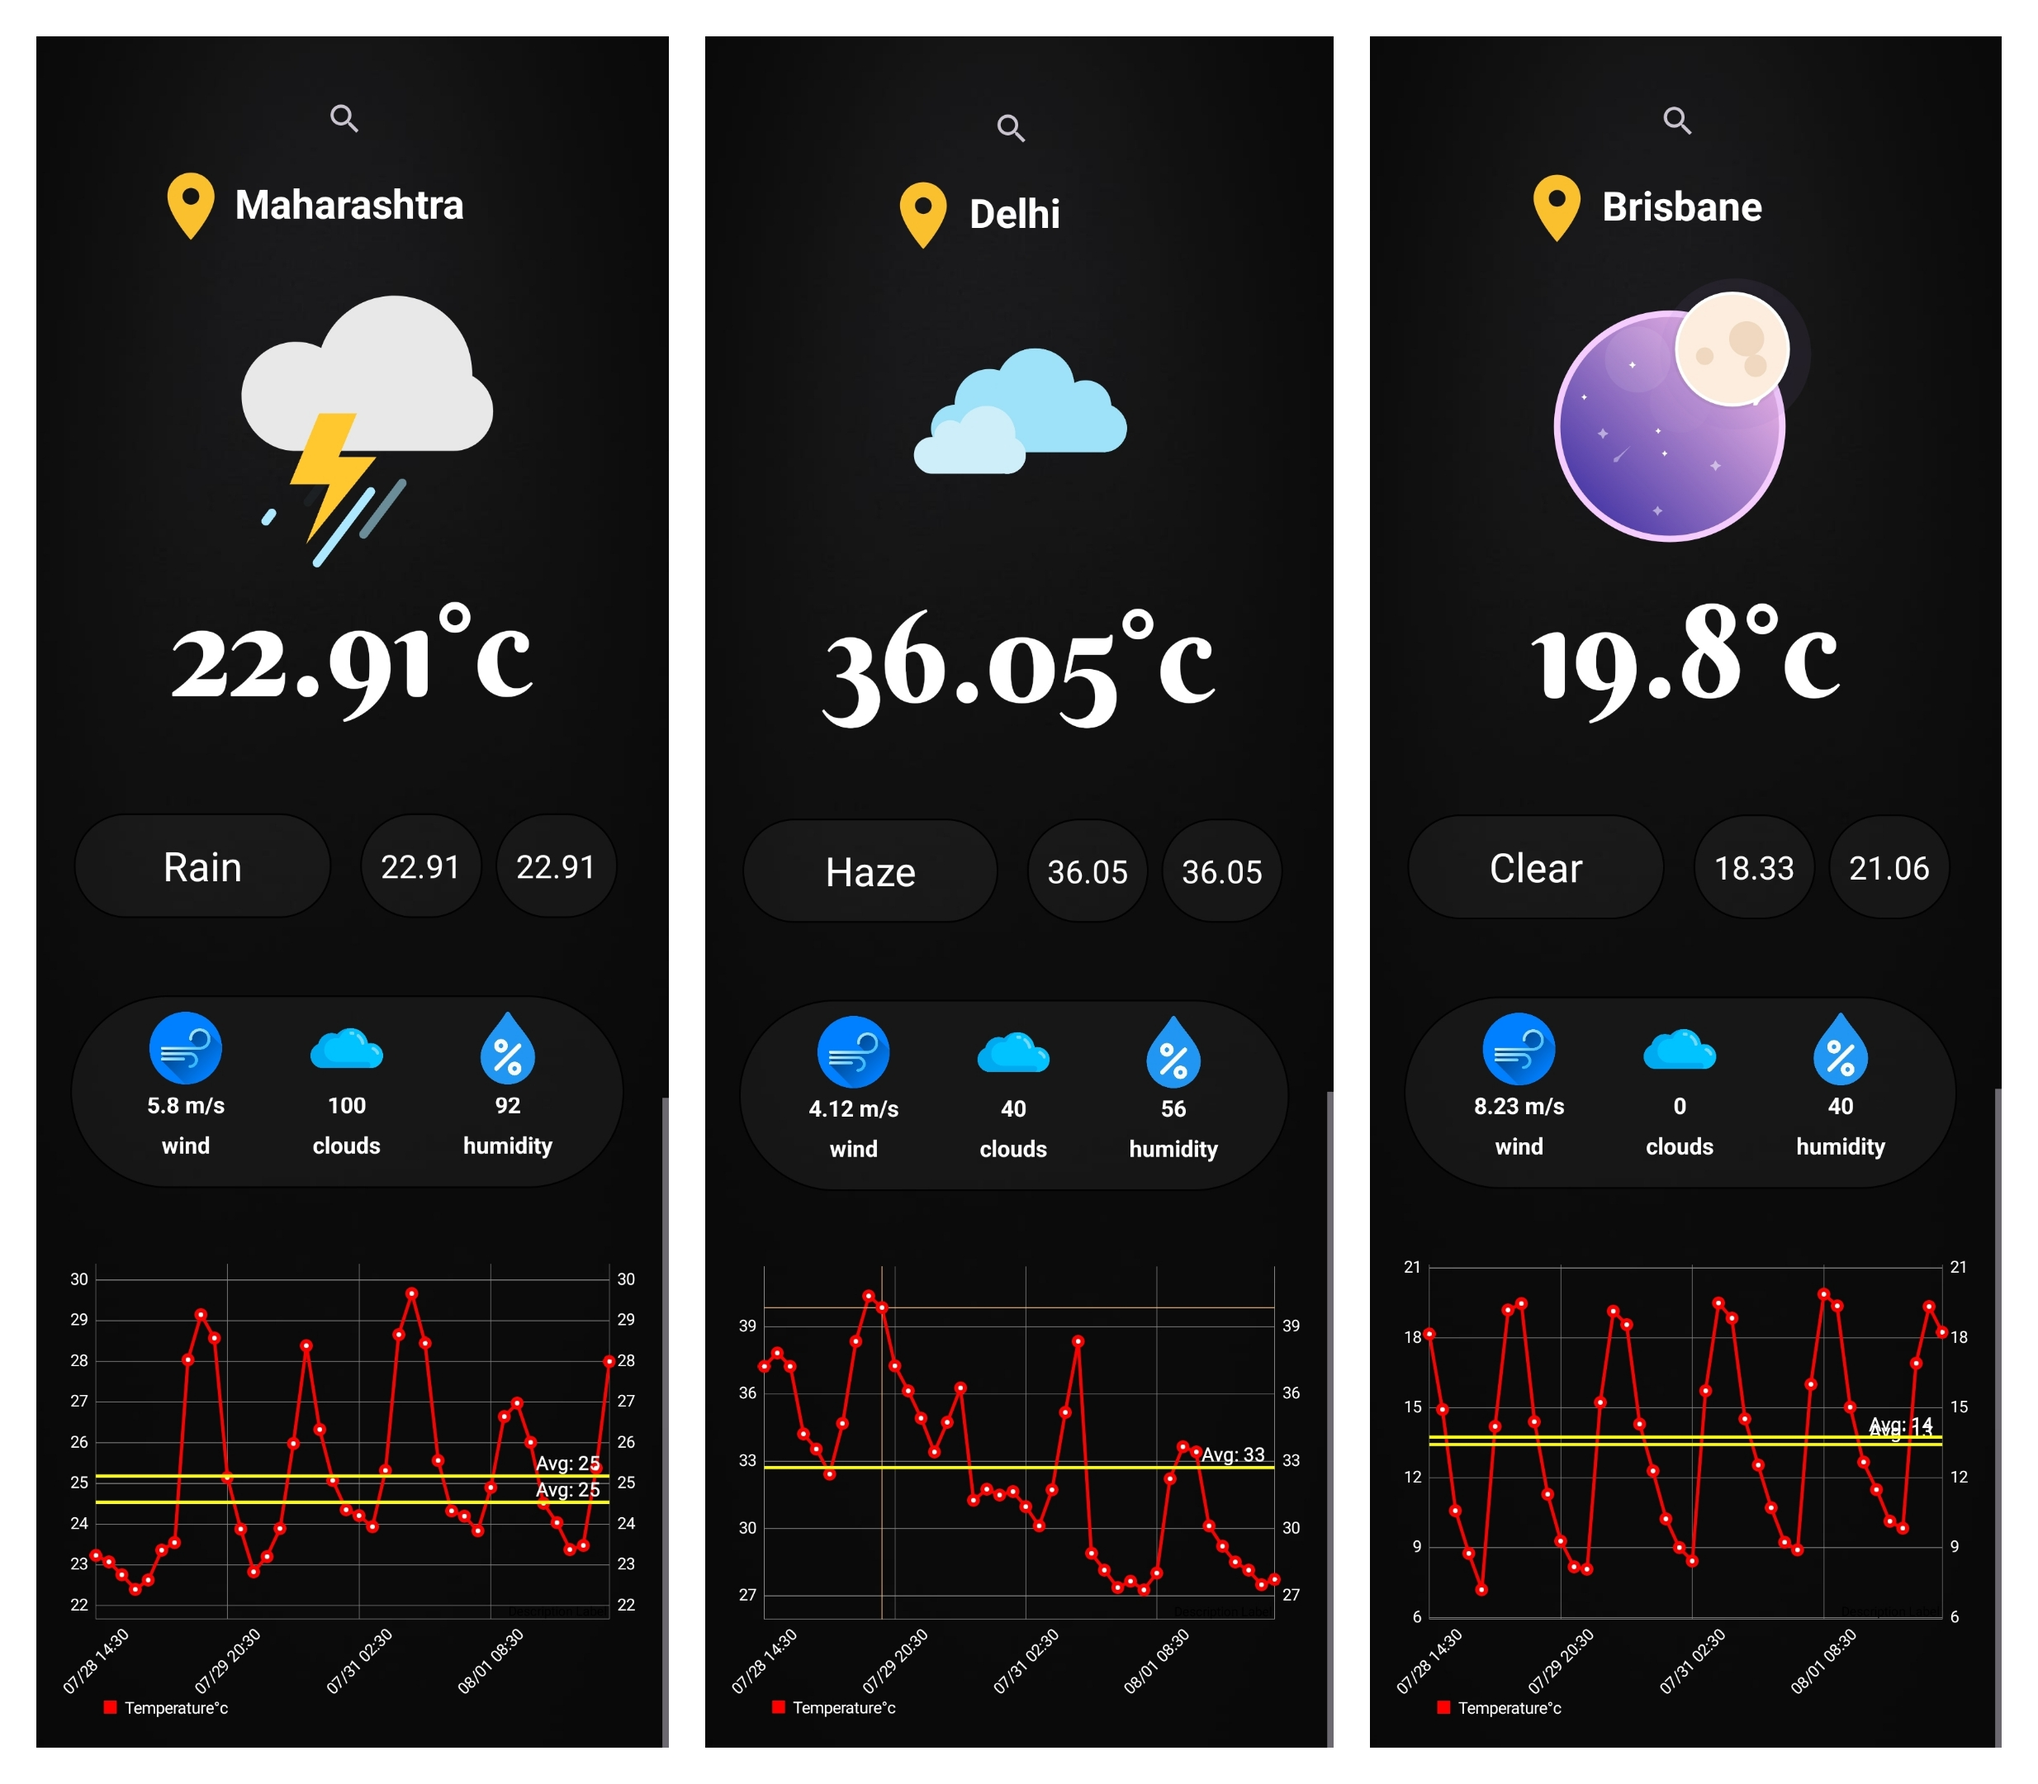
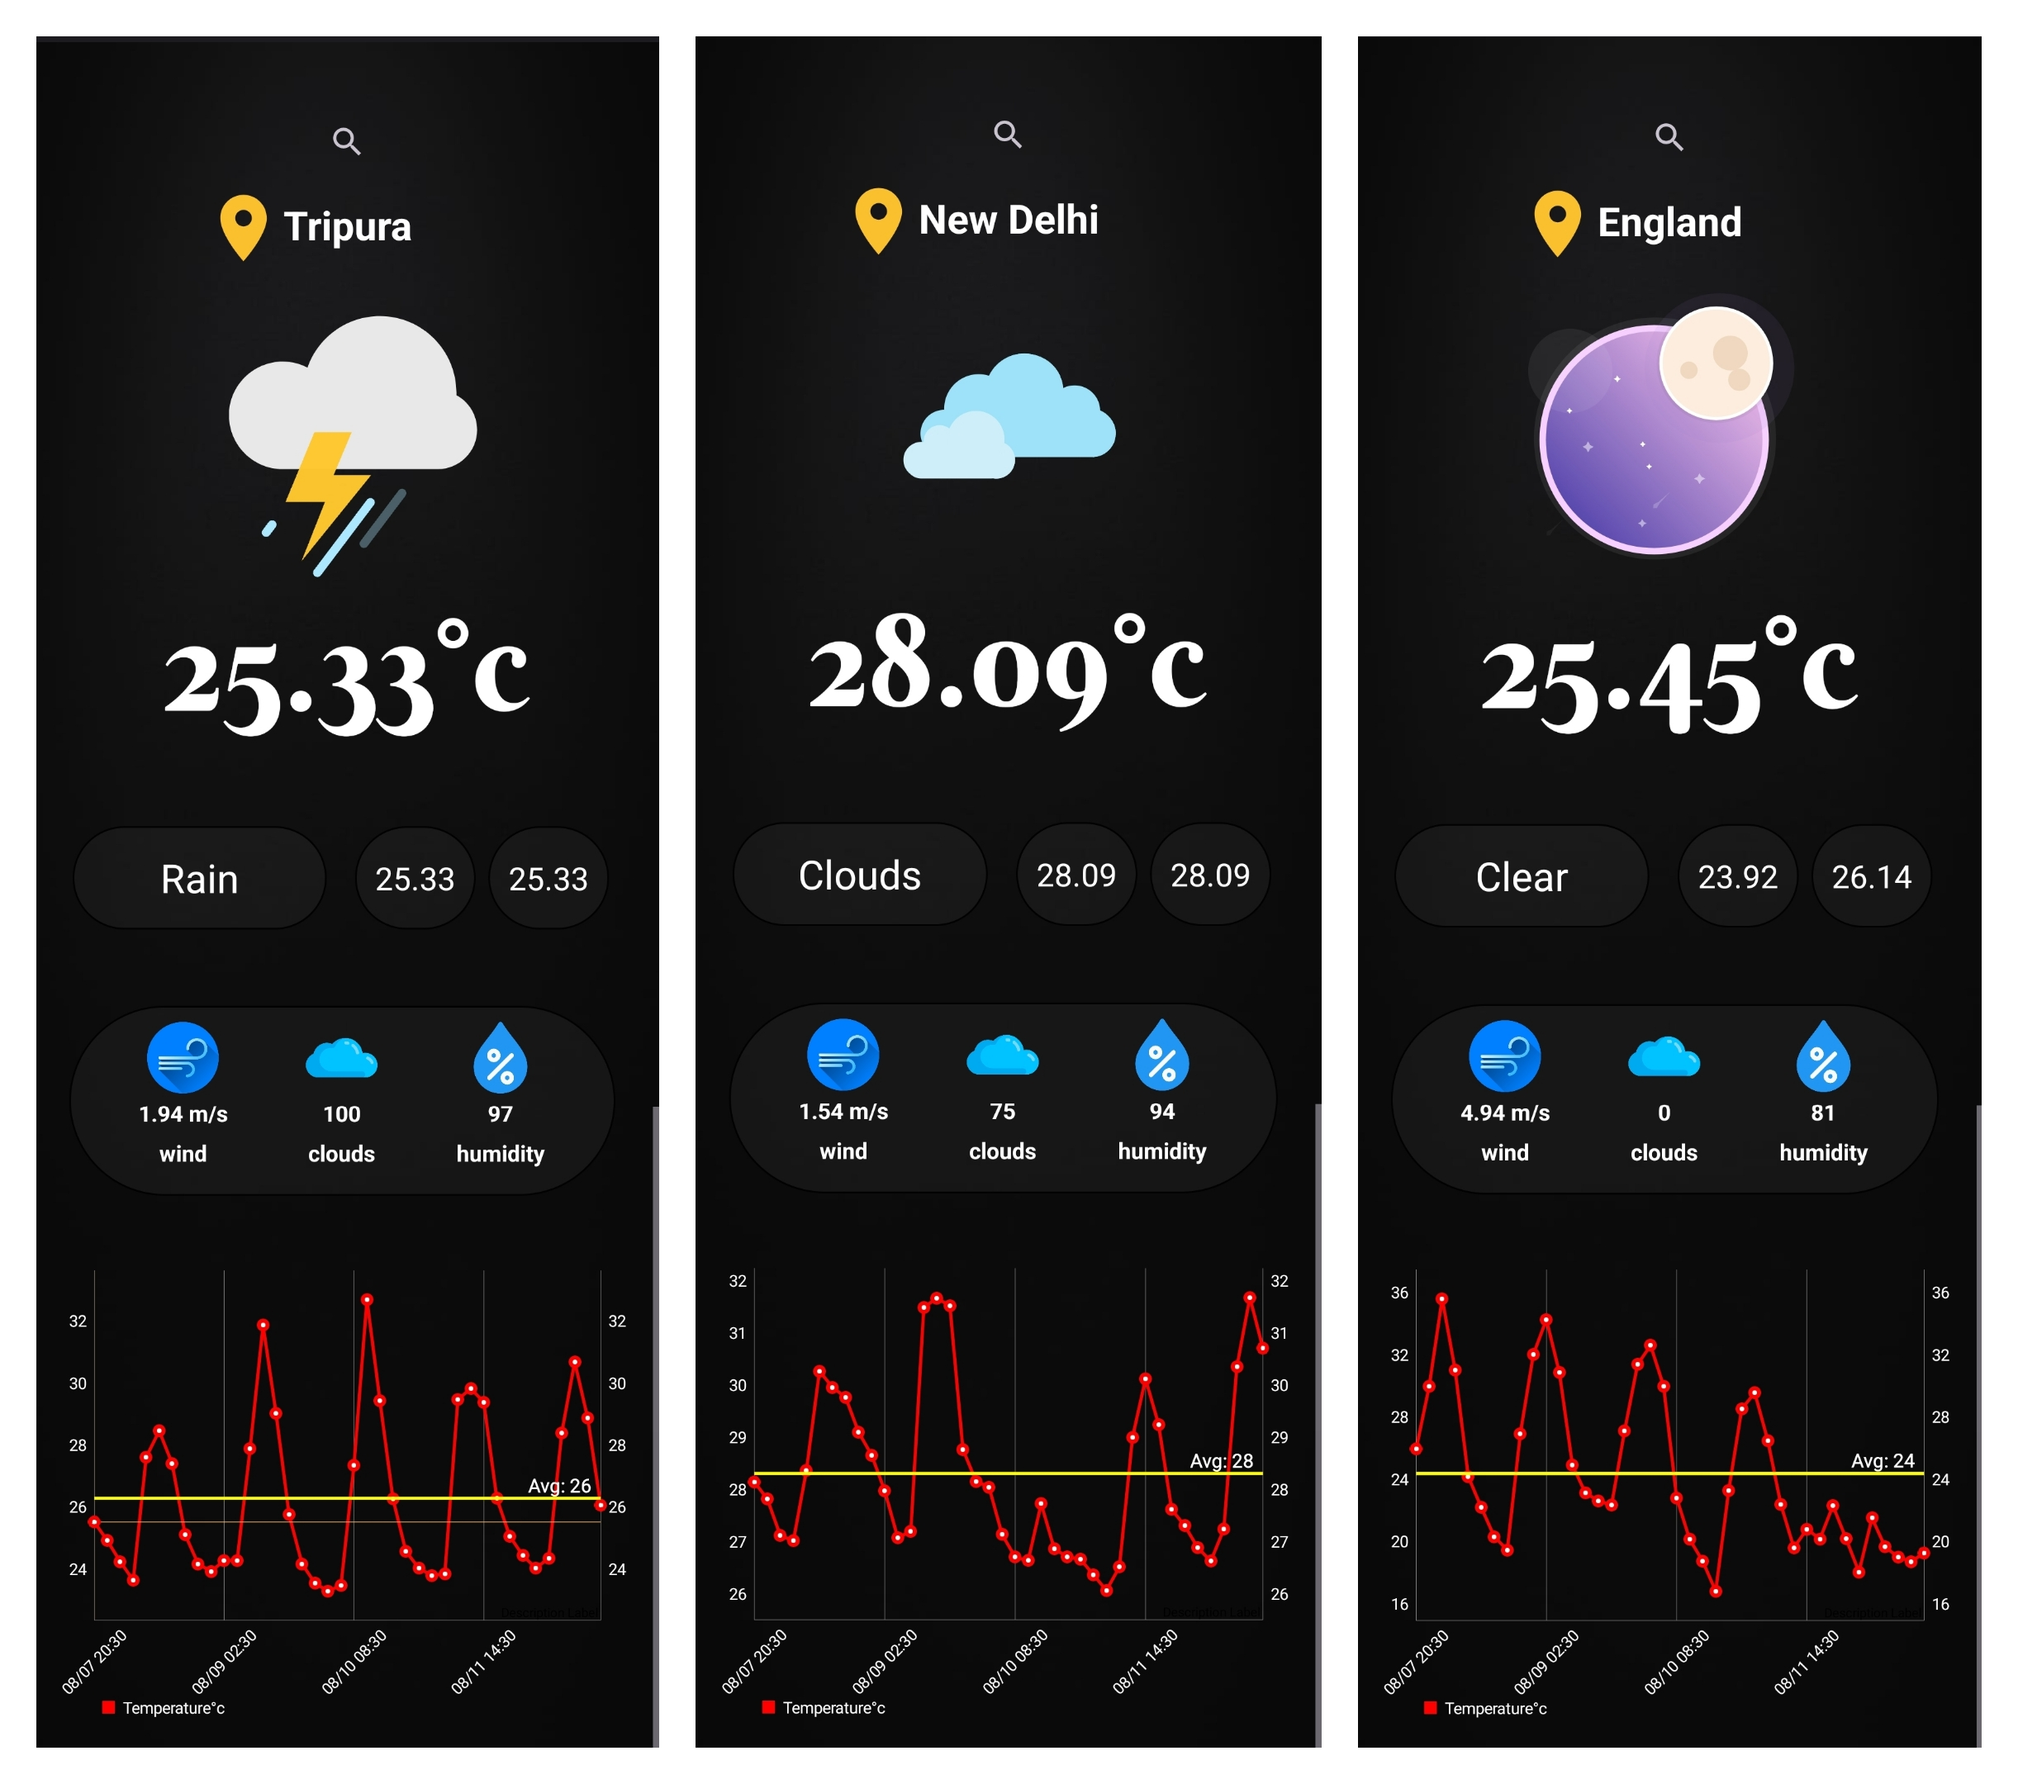
Updated project with new features and bug fixes

diff --git a/app/src/main/java/com/example/weather/MainActivity.kt b/app/src/main/java/com/example/weather/MainActivity.kt
@@ -216,16 +216,22 @@ class MainActivity : AppCompatActivity() {
         xAxis.position = XAxis.XAxisPosition.BOTTOM
         xAxis.granularity = 1f
         xAxis.labelRotationAngle = -45f // Rotate labels for better readability
+        xAxis.setDrawGridLines(true) // Draw grid lines
 
         val leftAxis: YAxis = lineChart.axisLeft
         leftAxis.textColor = Color.WHITE
+        leftAxis.setDrawGridLines(false) // Remove grid lines
 
         val rightAxis: YAxis = lineChart.axisRight
         rightAxis.textColor = Color.WHITE
+        rightAxis.setDrawGridLines(false) // Remove grid lines
 
         // Set the text color for the legend
         val legend: Legend = lineChart.legend
         legend.textColor = Color.WHITE
+
+        // Clear previous limit lines to avoid duplicate average temperature lines
+        leftAxis.removeAllLimitLines()
 
         // Create a LimitLine for the average value
         val avgLine = LimitLine(avgTemp.toFloat(), "Avg: %.0f".format(avgTemp))
@@ -236,9 +242,12 @@ class MainActivity : AppCompatActivity() {
 
         leftAxis.addLimitLine(avgLine)
 
+
         val lineData = LineData(dataSet)
         binding.lineChart.data = lineData
         binding.lineChart.invalidate() // Refresh chart
     }
+
+
 
 }
